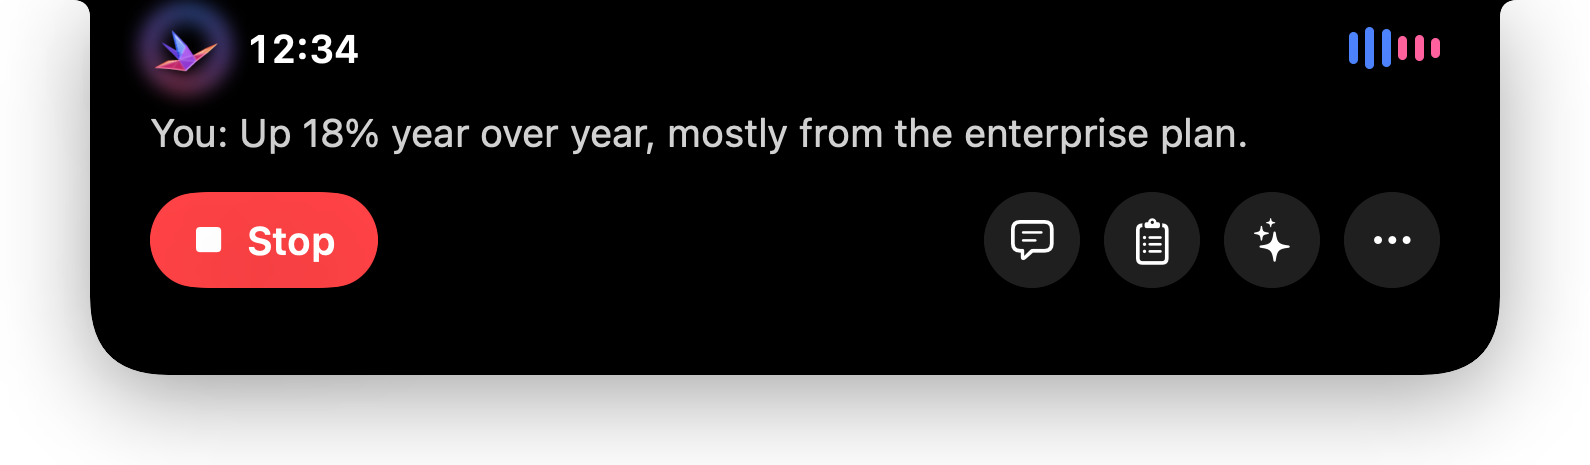
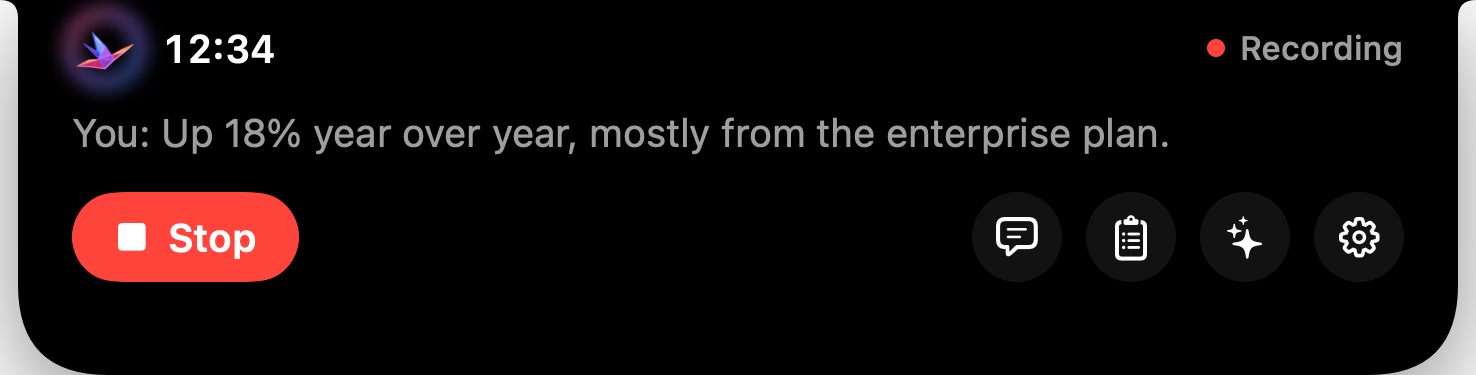
Website and README: new screenshots of the island, drag-to-install steps

diff --git a/docs/index.html b/docs/index.html
@@ -97,7 +97,7 @@
 
   /* MacBook top edge with the notch and the island on it */
   .screen {
-    position: relative; margin: 56px auto 0; max-width: 980px; aspect-ratio: 16 / 7.2;
+    position: relative; margin: 56px auto 0; max-width: 980px; aspect-ratio: 16 / 8.2;
     border-radius: 22px 22px 0 0; overflow: hidden;
     background:
       radial-gradient(1200px 500px at 20% 0%, rgba(255,255,255,.22), transparent 60%),
@@ -111,10 +111,7 @@
     width: 56%; filter: drop-shadow(0 18px 30px rgba(0,0,0,.35));
   }
   .island img { width: 100%; }
-  .float-card {
-    position: absolute; right: 4%; bottom: -6%; width: 30%;
-    border-radius: 14px; overflow: hidden; box-shadow: 0 30px 60px rgba(0,0,0,.35);
-  }
+  .island.panel { width: 44%; filter: none; }   /* the open island brings its own shadow */
 
   /* Sections */
   section { padding: 96px 0; }
@@ -135,7 +132,14 @@
 
   .shots { display: grid; grid-template-columns: repeat(3, 1fr); gap: 22px; align-items: start; }
   .shot figure { margin: 0; }
-  .shot img { border-radius: 14px; box-shadow: var(--shadow); }
+  /* Each panel hangs from the top of a little screen, as it does from the notch. */
+  .shot .wall {
+    border-radius: 18px; overflow: hidden; padding: 0 5%;
+    background:
+      radial-gradient(600px 300px at 20% 0%, rgba(255,255,255,.2), transparent 60%),
+      linear-gradient(135deg, var(--hero-a), var(--hero-b) 55%, var(--hero-c));
+    box-shadow: var(--shadow);
+  }
   .shot figcaption { margin-top: 14px; text-align: center; color: var(--muted); font-size: 15px; }
   .shot figcaption strong { color: var(--ink); display: block; font-size: 16px; }
 
@@ -176,15 +180,15 @@
     .grid, .shots { grid-template-columns: 1fr 1fr; }
     .steps { grid-template-columns: 1fr 1fr; }
     .privacy { grid-template-columns: 1fr; }
-    .float-card { display: none; }
     .island { width: 86%; }
+    .island.panel { width: 70%; }
   }
   @media (max-width: 560px) {
     nav .links { display: none; }
     .grid, .shots, .steps { grid-template-columns: 1fr; }
     section { padding: 64px 0; }
-    .screen { aspect-ratio: 4 / 3; border-width: 6px; }
-    .island { width: 100%; }
+    .screen { aspect-ratio: 1 / 1; border-width: 6px; }
+    .island, .island.panel { width: 100%; }
   }
 </style>
 </head>
@@ -218,10 +222,9 @@
     <div class="req">Free &amp; open source · Apple Silicon · macOS 26 or later</div>
   </div>
   <div class="wrap">
-    <div class="screen" role="img" aria-label="A MacBook screen with Hoot open around the notch, showing a live transcript line, a Stop button and quick actions">
+    <div class="screen" role="img" aria-label="A MacBook screen with Hoot's island open from the notch during a call: a running timer, a Stop button and the live transcript">
       <div class="menubar"></div>
-      <div class="island"><img src="assets/island-open-live.png" alt=""></div>
-      <div class="float-card"><img src="assets/panel-transcript.png" alt=""></div>
+      <div class="island panel"><img src="assets/hero.png" alt=""></div>
     </div>
   </div>
 </header>
@@ -234,7 +237,7 @@
       <div class="card">
         <div class="glyph" style="background:#1d1d1f">◖◗</div>
         <h3>Lives in the notch</h3>
-        <p>A Dynamic Island for your MacBook: a timer and live voice bars while recording, a drop-down with Record, Transcript, Notes and AI when you point at it.</p>
+        <p>A Dynamic Island for your MacBook: a timer and live voice bars while recording, Record and quick links when you point at it — and everything opens right there.</p>
       </div>
       <div class="card">
         <div class="glyph" style="background:linear-gradient(135deg,var(--you),var(--them))">◉</div>
@@ -267,12 +270,12 @@
 
 <section class="alt">
   <div class="wrap">
-    <h2>One window. Three superpowers.</h2>
-    <p class="sub">Transcript, notes and AI live together in a single Liquid Glass window that floats over your call.</p>
+    <h2>One island. Three superpowers.</h2>
+    <p class="sub">Transcript, notes and AI open inside the island at the top of your screen — no windows to juggle, and none of it shows up when you share your screen.</p>
     <div class="shots">
-      <div class="shot"><figure><img src="assets/panel-transcript.png" alt="Hoot's transcript, laid out like Messages"><figcaption><strong>Transcript</strong>Laid out like Messages — you on the right, everyone else on the left.</figcaption></figure></div>
-      <div class="shot"><figure><img src="assets/panel-notes.png" alt="Hoot's speaker notes"><figcaption><strong>Speaker notes</strong>Your cue card, a linked doc, and a teleprompter.</figcaption></figure></div>
-      <div class="shot"><figure><img src="assets/panel-ai.png" alt="Hoot's AI Assist tab"><figcaption><strong>AI Assist</strong>Answers from your AI apps, and Ask about the meeting.</figcaption></figure></div>
+      <div class="shot"><figure><div class="wall"><img src="assets/panel-transcript.png" alt="Hoot's transcript, laid out like Messages"></div><figcaption><strong>Transcript</strong>Laid out like Messages — you on the right, everyone else on the left.</figcaption></figure></div>
+      <div class="shot"><figure><div class="wall"><img src="assets/panel-notes.png" alt="Hoot's speaker notes"></div><figcaption><strong>Speaker notes</strong>Your cue card, a linked doc, and a teleprompter.</figcaption></figure></div>
+      <div class="shot"><figure><div class="wall"><img src="assets/panel-ai.png" alt="Hoot's AI Assist tab"></div><figcaption><strong>AI Assist</strong>Answers from your AI apps, and Ask about the meeting.</figcaption></figure></div>
     </div>
   </div>
 </section>
@@ -301,7 +304,7 @@
     <h2>Up and running in a minute.</h2>
     <p class="sub">Needs a Mac with Apple Silicon (M1 or newer) and macOS 26 or later.</p>
     <div class="steps">
-      <div class="step"><h3>Download</h3><p>Get <a href="https://github.com/Sagar-Darji/hoot/releases/latest/download/Hoot.dmg">Hoot.dmg</a>, open it and drag Hoot to Applications.</p></div>
+      <div class="step"><h3>Download</h3><p>Get <a href="https://github.com/Sagar-Darji/hoot/releases/latest/download/Hoot.dmg">Hoot.dmg</a>, open it and drag Hoot onto the Applications folder.</p></div>
       <div class="step"><h3>Open it</h3><p>If macOS says it can't verify Hoot: click Done, then System Settings › Privacy &amp; Security › <em>Open Anyway</em>. Only once.</p></div>
       <div class="step"><h3>Allow two things</h3><p>The Setup checklist asks for the Microphone and System Audio, then downloads the speech model (≈550 MB) once.</p></div>
       <div class="step"><h3>Take notes</h3><p>Point at the notch and hit Record — or press <kbd>⌃</kbd><kbd>⌥</kbd><kbd>R</kbd> in any app.</p></div>
@@ -314,11 +317,11 @@
     <h2>Questions</h2>
     <details><summary>Is Hoot really free?</summary><p>Yes. It's open source under the MIT license. There's no paid tier and no account.</p></details>
     <details><summary>Which call apps does it work with?</summary><p>All of them. Hoot listens to your microphone and your Mac's audio output, so it works with Zoom, Google Meet, Teams, FaceTime, Slack huddles, Discord, WhatsApp — even a YouTube video.</p></details>
-    <details><summary>My Mac has no notch. Can I still use it?</summary><p>Yes — Hoot becomes a small floating Liquid Glass bubble you can drag anywhere. You can also choose the bubble on a MacBook in Settings.</p></details>
+    <details><summary>My Mac has no notch. Can I still use it?</summary><p>Yes — Hoot draws the same island at the top centre of your screen, and it works exactly the same.</p></details>
     <details><summary>Why does macOS warn me the first time?</summary><p>Hoot isn't distributed through the App Store, so macOS asks you to confirm once. Use System Settings › Privacy &amp; Security › Open Anyway. The source is on GitHub if you'd like to build it yourself.</p></details>
     <details><summary>Which languages does it understand?</summary><p>Whisper handles about 100 languages and can detect them automatically. You can also pick one in Settings › General.</p></details>
-    <details><summary>Does it slow my Mac down?</summary><p>At rest Hoot uses under 100 MB of memory and no CPU. The speech engine only loads when a meeting starts and is released a few minutes after it ends.</p></details>
-    <details><summary>How do updates work?</summary><p>Hoot checks GitHub once a day and shows “Update to Hoot X” in its menu when a new version is out.</p></details>
+    <details><summary>Does it slow my Mac down?</summary><p>At rest Hoot uses under 100 MB of memory and no CPU. The speech engine only loads for a meeting and is released a few minutes after it ends (or after a call you didn't record), and Hoot only reads your AI apps during a meeting or while its AI tab is open.</p></details>
+    <details><summary>How do updates work?</summary><p>Hoot checks GitHub once a day and tells you in the island when a new version is out — download it and drag it onto Applications again.</p></details>
   </div>
 </section>
 

diff --git a/README.md b/README.md
@@ -26,13 +26,13 @@
 
 ## Features
 
-- **Lives in the notch** — a Dynamic Island for your MacBook: timer and live voice bars while recording; point at the notch for Record, Transcript, Notes and AI. Macs without a notch get a floating Liquid Glass bubble.
+- **Lives in the notch** — a Dynamic Island for your MacBook: timer and live voice bars while recording; point at the notch for Record and quick links, and Transcript, Notes, AI and Settings all open right inside the island. Macs without a notch get the same island at the top of the screen.
 - **Both sides, on-device** — your microphone and the call's audio are transcribed separately with [whisper.cpp](https://github.com/ggml-org/whisper.cpp). Works with Zoom, Meet, Teams, FaceTime, Slack and anything else that plays sound.
 - **Summary & action items** — when you stop, Apple Intelligence writes the summary, decisions, action items and open questions, on-device.
 - **Speaker notes** — a cue card beside the call, a linked doc (Google Docs/Slides/Sheets, GitHub, any page) that stays up to date, and a teleprompter.
 - **AI Assist** — answers from Claude, ChatGPT and Gemini appear beside the call (read automatically, copied, or sent from your phone), and you can *Ask about this meeting*.
-- **Invisible when sharing** — Hoot's windows are excluded from screen sharing and recordings.
-- **Light** — under 100 MB at rest with no CPU use; the speech engine loads only during meetings and is released a few minutes after.
+- **Invisible when sharing** — Hoot is excluded from screen sharing and recordings.
+- **Light** — under 100 MB at rest with no CPU use; the speech engine loads only during meetings and is released a few minutes after. Animations follow your voice levels instead of a timer, so silence costs nothing.
 
 | Transcript | Speaker notes | AI Assist |
 | --- | --- | --- |
@@ -42,7 +42,7 @@
 
 Needs a Mac with Apple Silicon (M1 or newer) and **macOS 26** or later.
 
-1. Download [**Hoot.dmg**](https://github.com/Sagar-Darji/hoot/releases/latest/download/Hoot.dmg), open it and drag Hoot to Applications.
+1. Download [**Hoot.dmg**](https://github.com/Sagar-Darji/hoot/releases/latest/download/Hoot.dmg), open it and drag Hoot onto the Applications folder.
 2. Open Hoot. If macOS says it can't verify the app, click **Done**, then go to **System Settings › Privacy & Security** and click **Open Anyway** (once).
 3. Follow the Setup checklist: allow the **Microphone** and **Screen & System Audio Recording**, reopen Hoot, and let it download the speech model (≈550 MB, once).
 4. Press **⌃⌥R** in any app (or click Record in the notch) to take notes.
@@ -56,7 +56,7 @@ Notes are Markdown files in `~/Documents/Meeting Notes/`. Nothing is uploaded an
 | `Audio/` | Captures the mic (`AVAudioEngine`, echo-cancelled) and the call's audio (`ScreenCaptureKit`, audio only) as two 16 kHz tracks, splits each into speech chunks at pauses. |
 | `Transcription/` | Runs a bundled `whisper-server` (whisper.cpp + Metal) on demand; summaries and *Ask* use Apple's on-device Foundation Models. |
 | `Recorder.swift` | Session lifecycle, transcription queue, files, and the speech engine's load/unload. Voice levels live in a separate `LiveMeter` so only the meter redraws while recording. |
-| `UI/` | The notch island and bubble, the one panel (Transcript · Notes · AI), Settings, and the glass crane renderer. |
+| `UI/` | The notch island — Hoot's only window, with Transcript · Notes · AI · Settings inside it — built on one design system (`Theme.swift`); the glass crane renderer; the install window's background. |
 | `Assist/` | AI Assist: reading Claude/ChatGPT/Gemini via Accessibility, the clipboard, and a token-protected Wi-Fi drop page. |
 | `System/` | Global shortcuts, call detection, launch at login, update checks. |
 
@@ -68,7 +68,11 @@ brew install whisper-cpp            # the speech engine that gets bundled into t
 ./build.sh install                  # builds Hoot.app, bundles the engine, installs and opens it
 ```
 
-Useful flags on the built binary (`.build/release/MeetingNotes`): `--transcribe-file <audio>`, `--summarize-demo`, `--fetch-doc <link>`, `--render-icon <png>`.
+Useful flags on the built binary (`.build/release/MeetingNotes`): `--transcribe-file <audio>`, `--summarize-demo`, `--fetch-doc <link>`, `--render-icon <png>`, `--render-island <dir>`, `--render-installer <dir>`.
+
+`HOOT_SHOWCASE=<tab>` opens the island with sample content for screenshots (`live`, `live-transcript`, `notes`, `assist`, `settings`, …); `HOOT_SHOWCASE=bench` steps through every state and prints dropped frames and CPU for each; `HOOT_SLOWMO=10` slows the island's animations down to check them frame by frame.
+
+`./package.sh` makes the disk image with the classic install window (drag Hoot onto Applications). Its background and Finder layout live in `Resources/dmg`.
 
 ## Releasing an update
 
